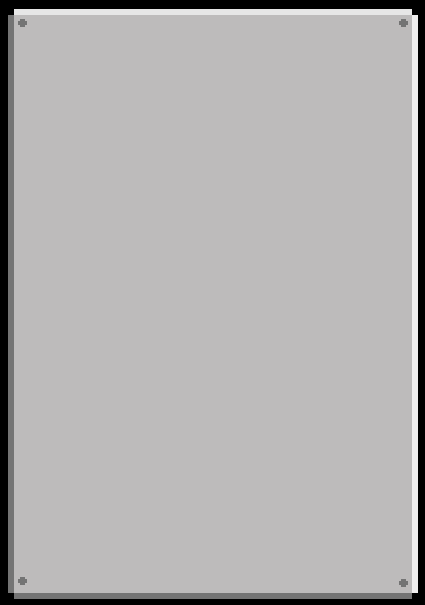
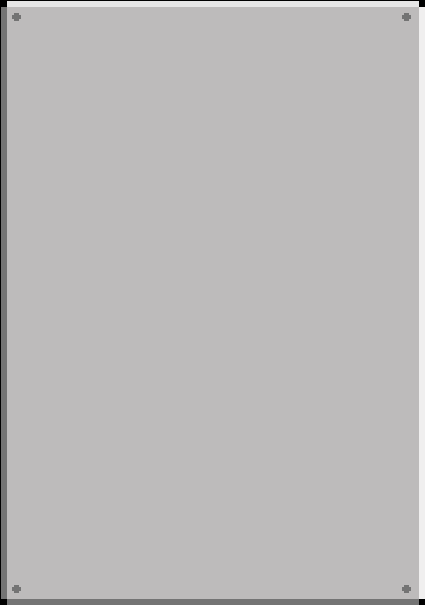
added participation panel

Changed region(s): [[0.0, 0.0, 1.0, 1.0]]

diff --git a/style.css b/style.css
@@ -55,7 +55,7 @@ div.explanation{
 	float: left;
 	background-image: url(panel-explanation.png);
 	background-size: 435px 525px;
-	margin: 0 0 0 400px;
+	margin: 40px 0 0 400px;
 
 }
 
@@ -74,7 +74,7 @@ div.participation{
 	max-width: 425px;
 	border-style: solid;
 	float: left;
-	background: white;
+	background-image: url(panel-participation.png);
 	margin: 40px 0 0 0;
 
 }
@@ -152,7 +152,7 @@ div#zen-resources ul{
 	font-size:15px;
 	background: white;
 	list-style: none;
-	max-width:350px;
+	max-width:350px
 	margin: 0 0 0 0;
 	padding: 0 0 0 0;
 }
